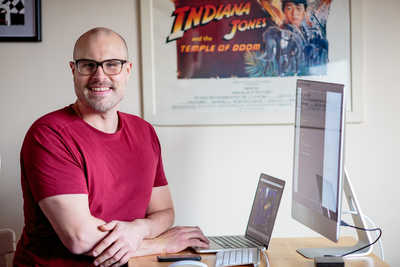
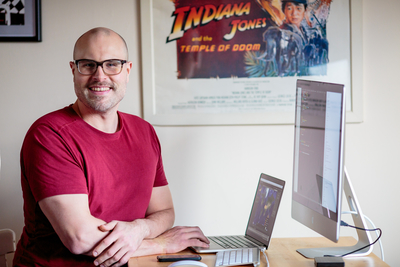
working on li elements

diff --git a/index.html b/index.html
@@ -6,24 +6,98 @@
     <meta http-equiv="X-UA-Compatible" content="IE=edge">
     <title>Euan Ramsay</title>
     <link rel="stylesheet" type="text/css" href="css/main.css">
+    <link href="https://fonts.googleapis.com/css?family=Playfair+Display" rel="stylesheet">
   </head>
   <body>
-
-  <h1>Euan Ramsay</h1>
-  <h3>Junior Software Developer</h3>
-
+  <header>
+    <h1>Euan Ramsay</h1>
+    <h3>Junior Software Developer</h3>
+  </header>
   <hr>
-
-  <article>
-
+  <section>
   <picture>
-    <source media="(min-width: 1600px)" srcset="images/main_image-1600large.jpg">
+    <source media="(min-width: 2000px)" srcset="images_src/main_image.jpg 2x, images/main_image-2400extra_large.jpg">
+    <source media="(min-width: 1600px)" srcset="images/main_image-2400extra_large.jpg 2x, images/main_image-1600large.jpg">
     <source media="(min-width: 800px)" srcset="images/main_image-1600large.jpg 2x, images/main_image-800medium.jpg">
     <source media="(min-width: 400px)" srcset="images/main_image-800medium.jpg 2x, images/main_image-400small.jpg">
     <img src="images/main_image-400small.jpg" alt="Photo of Euan Ramsay in red t-shirt sitting at a desk in front of an imac and laptop">
   </picture>
+  </section>
 
-  </article>
-
+  <section>
+  <h3>
+    <span>Featured Work</span>
+  </h3>
+  <div class="work">
+  <ul>
+    <li>
+      <article class="work-item">
+        <a href="https://github.com/euanramsay/python_movie_play">My Favorite Movie Trailers</a>
+        <div>
+        <picture>
+      <!--     <source media="(min-width: 1600px)" srcset="images/movie_trailers-1600large.jpg 2x, images/movie_trailers-800medium.jpg">
+          <source media="(min-width: 800px)" srcset="images/movie_trailers-800medium.jpg 2x, images/movie_trailers-400small.jpg">
+          <source media="(min-width: 400px)" srcset="images/movietrailers-400small.jpg">
+          <img src="images/movie_trailers-400small.jpg" alt="Image of browser showing favorite movies page"> -->
+        </picture>
+        </div>
+        <div>
+        <h3>
+          <span>My Favorite Movie Trailers</span>
+        </h3>
+       <!--  <hr> -->
+        <div>
+          <span>Python</span>
+        </div>
+        </div>
+      </article>
+    </li>
+    <li>
+      <article class="work-item">
+        <a href="https://github.com/euanramsay/python_movie_play">My Favorite Movie Trailers</a>
+        <div>
+        <picture>
+      <!--     <source media="(min-width: 1600px)" srcset="images/movie_trailers-1600large.jpg 2x, images/movie_trailers-800medium.jpg">
+          <source media="(min-width: 800px)" srcset="images/movie_trailers-800medium.jpg 2x, images/movie_trailers-400small.jpg">
+          <source media="(min-width: 400px)" srcset="images/movietrailers-400small.jpg">
+          <img src="images/movie_trailers-400small.jpg" alt="Image of browser showing favorite movies page"> -->
+        </picture>
+        </div>
+        <div>
+        <h3>
+          <span>My Favorite Movie Trailers</span>
+        </h3>
+       <!--  <hr> -->
+        <div>
+          <span>Python</span>
+        </div>
+        </div>
+      </article>
+    </li>
+    <li>
+      <article class="work-item">
+        <a href="https://github.com/euanramsay/python_movie_play">My Favorite Movie Trailers</a>
+        <div>
+        <picture>
+      <!--     <source media="(min-width: 1600px)" srcset="images/movie_trailers-1600large.jpg 2x, images/movie_trailers-800medium.jpg">
+          <source media="(min-width: 800px)" srcset="images/movie_trailers-800medium.jpg 2x, images/movie_trailers-400small.jpg">
+          <source media="(min-width: 400px)" srcset="images/movietrailers-400small.jpg">
+          <img src="images/movie_trailers-400small.jpg" alt="Image of browser showing favorite movies page"> -->
+        </picture>
+        </div>
+        <div>
+        <h3>
+          <span>My Favorite Movie Trailers</span>
+        </h3>
+     <!--    <hr> -->
+        <div>
+          <span>Python</span>
+        </div>
+        </div>
+      </article>
+    </li>
+  </ul>
+  </div>
+  </section>
   </body>
   </html>

diff --git a/css/main.css b/css/main.css
@@ -1,7 +1,52 @@
-h1 {
-	font-family: sans-serif;
+header {
+	font-family: 'Playfair Display', serif;
+	text-align: right;
+	box-sizing: border-box;
+    margin: 0 auto;
+    max-width: 1560px;
+    padding-left: 20px;
+    padding-right: 20px
 }
 
-picture {
+body {
+	font-family: 'Playfair Display', serif;
+}
+
+img {
 	width: 100%;
+}
+
+ul {
+	display: block;
+	list-style-type: none;
+	margin: 0;
+	padding: 0;
+}
+
+li {
+	float: left;
+}
+
+section {
+    box-sizing: border-box;
+    margin: 0 auto;
+    max-width: 1560px;
+    padding-left: 20px;
+    padding-right: 20px
+}
+
+.work {
+	width: 100%;
+	padding: 0;
+	margin: 0;
+}
+
+.work_item {
+	box-sizing: border-box;
+	display: inline-block;
+	width: 24%;
+	text-align: center;
+	line-height: 24px;
+	padding: 24px;
+	text-transform: uppercase;
 }

diff --git a/Gruntfile.js b/Gruntfile.js
@@ -16,15 +16,19 @@ module.exports = function(grunt) {
           sizes: [{
           width: 400,
             suffix: 'small',
-            quality: 50
+            quality: 100
           },{
             width: 800,
             suffix: 'medium',
-            quality: 50
+            quality: 100
           },{
             width: 1600,
             suffix: 'large',
-            quality: 50
+            quality: 100
+          },{
+            width: 2400,
+            suffix: 'extra_large',
+            quality: 100
           }]
         },
 
